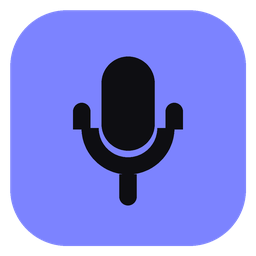
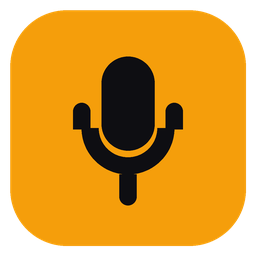
feat: icône ambre, plus visible dans la barre des tâches
- icône de l'application (exécutable, fenêtre, barre des tâches)
  redessinée en ambre (#F59E0B) ;
- pastille de la zone de notification ambre au repos ; la transcription
  passe en bleu (pastille et animation près du curseur) pour rester
  distincte, comme dans la maquette du mode réduit.

Claude-Session: https://claude.ai/code/session_01F8EBcfdij6bQ3uQRhhvB7C

diff --git a/src/ui/index.html b/src/ui/index.html
@@ -206,7 +206,7 @@ nav button.on::before{content:'';position:absolute;top:0;width:22px;height:3px;b
       <div class="list" id="keys"></div>
       <div class="section">Dictée</div>
       <div class="list">
-        <div class="set"><div class="lbl"><span>Animation près du curseur</span><span>Écoute en rouge, transcription en orange</span></div>
+        <div class="set"><div class="lbl"><span>Animation près du curseur</span><span>Écoute en rouge, transcription en bleu</span></div>
           <button class="toggle" id="t-indicator" aria-label="Animation près du curseur" aria-pressed="false"><span></span></button></div>
         <div class="set" id="row-live"><div class="lbl"><span>Écrire pendant la dictée</span><span>Realtime : mot par mot, quand Ctrl, Alt et Win sont relâchés</span></div>
           <button class="toggle" id="t-live" aria-label="Écrire pendant la dictée" aria-pressed="false"><span></span></button></div>

diff --git a/src/overlay.rs b/src/overlay.rs
@@ -2,7 +2,7 @@
 //!
 //! - **Écoute** : point rouge qui pulse et barres qui suivent le volume du
 //!   micro, pour voir que la voix est bien captée.
-//! - **Transcription** : trois points orange qui ondulent pendant
+//! - **Transcription** : trois points bleus qui ondulent pendant
 //!   l'interrogation de l'API.
 //!
 //! Le dessin est fait ici, en mémoire, sans dépendance système ; la fenêtre
@@ -42,7 +42,7 @@ pub fn level_from_rms(rms: f32) -> f32 {
 
 const BACKGROUND: [f32; 4] = [0.094, 0.094, 0.106, 0.9];
 const RED: [f32; 3] = [0.973, 0.443, 0.443];
-const ORANGE: [f32; 3] = [0.961, 0.620, 0.043];
+const BLUE: [f32; 3] = [0.376, 0.647, 0.980];
 const WHITE: [f32; 3] = [0.95, 0.95, 0.95];
 
 /// Taille en pixels physiques pour un facteur d'échelle d'écran.
@@ -96,7 +96,7 @@ pub fn render(animation: Animation, t: f32, level: f32, scale: f32) -> Vec<u8> {
                     .max(0.0);
                 let (cx, dy) = (18.0 + i as f32 * 12.0, -4.0 * wave);
                 let alpha = 0.7 + 0.3 * wave;
-                canvas.fill([ORANGE[0], ORANGE[1], ORANGE[2], alpha], |x, y| {
+                canvas.fill([BLUE[0], BLUE[1], BLUE[2], alpha], |x, y| {
                     dist(x, y, cx, cy + dy) <= 3.4
                 });
             }
@@ -262,8 +262,8 @@ mod tests {
         let thinking = render(Animation::Thinking, 0.2, 0.5, 1.0);
         assert_ne!(listening, thinking);
         assert_ne!(thinking, render(Animation::Thinking, 0.5, 0.5, 1.0));
-        // Transcription : orange, pas de rouge.
+        // Transcription : bleu, pas de rouge.
         let [b, g, r, _] = pixel(&render(Animation::Thinking, 0.0, 0.0, 1.0), 30, 13);
-        assert!(r > 150 && r > g && g > 2 * b, "{:?}", (r, g, b));
+        assert!(b > 150 && b > g && g > r, "{:?}", (r, g, b));
     }
 }

diff --git a/src/tray.rs b/src/tray.rs
@@ -27,9 +27,9 @@ impl TrayState {
 
     fn color(self) -> [u8; 3] {
         match self {
-            Self::Idle => [0x3B, 0x6E, 0xD8],       // bleu
+            Self::Idle => [0xF5, 0x9E, 0x0B],       // ambre (couleur de Dictia)
             Self::Recording => [0xE5, 0x39, 0x35],  // rouge
-            Self::Processing => [0xF5, 0x8F, 0x00], // orange
+            Self::Processing => [0x3B, 0x82, 0xF6], // bleu
             Self::Error => [0x75, 0x75, 0x75],      // gris
         }
     }
@@ -188,7 +188,7 @@ mod tests {
         assert_eq!(rgba.len(), (ICON_SIZE * ICON_SIZE * 4) as usize);
         assert_eq!(pixel(&rgba, 0, 0)[3], 0, "coin transparent");
         assert_eq!(pixel(&rgba, 16, 12), [255, 255, 255, 255], "micro blanc");
-        assert_eq!(pixel(&rgba, 4, 16), [0x3B, 0x6E, 0xD8, 255], "fond bleu");
+        assert_eq!(pixel(&rgba, 4, 16), [0xF5, 0x9E, 0x0B, 255], "fond ambre");
     }
 
     #[test]

diff --git a/assets/generate_icon.py b/assets/generate_icon.py
@@ -1,4 +1,4 @@
-"""Génère assets/dictia.ico (logo des maquettes : carré indigo, micro sombre).
+"""Génère assets/dictia.ico (logo : carré ambre, micro sombre).
 
 Usage : python3 assets/generate_icon.py   (nécessite Pillow)
 """
@@ -6,7 +6,7 @@ from pathlib import Path
 
 from PIL import Image, ImageDraw
 
-ACCENT = (0x7C, 0x83, 0xFF, 255)
+ACCENT = (0xF5, 0x9E, 0x0B, 255)  # ambre, bien visible dans la barre des tâches
 INK = (0x0E, 0x0E, 0x12, 255)
 BIG = 1024
 SIZES = [16, 20, 24, 32, 40, 48, 64, 128, 256]

diff --git a/src/config.rs b/src/config.rs
@@ -101,7 +101,7 @@ live_typing = true
 
 [indicator]
 # Animation à côté du curseur : point rouge et barres de volume pendant
-# l'écoute, points orange pendant la transcription.
+# l'écoute, points bleus pendant la transcription.
 enabled = true
 
 [ui]

diff --git a/README.md b/README.md
@@ -17,8 +17,8 @@ l'apparition du texte. Le cahier des charges complet se trouve dans
 - connexion TLS ouverte dès le 1er appui ;
 - transcription `gpt-4o-transcribe` en streaming (`/v1/audio/transcriptions`) ;
 - remplacements personnalisés, puis frappe via `SendInput` (sans presse-papier) ;
-- icône dans la zone de notification (bleu : prêt, rouge : enregistrement,
-  orange : transcription, gris : erreur) ;
+- icône dans la zone de notification (ambre : prêt, rouge : enregistrement,
+  bleu : transcription, gris : erreur) ;
 - journal des latences de chaque dictée ;
 - animation à côté du curseur pendant l'écoute et la transcription ;
 - fenêtre Dictia : historique, vocabulaire, raccourcis et réglages,
@@ -146,7 +146,7 @@ configuration.
 
 ## Utilisation
 
-1. Lancez `dictia.exe` : une pastille bleue avec un micro apparaît dans la zone
+1. Lancez `dictia.exe` : une pastille ambre avec un micro apparaît dans la zone
    de notification. Un clic dessus ouvre la fenêtre Dictia ; relancer
    `dictia.exe` alors qu'il tourne déjà l'ouvre aussi. Sans clé API, la
    fenêtre s'ouvre directement sur les Réglages.
@@ -159,14 +159,14 @@ configuration.
      après le relâchement (réglable dans Réglages → *Prolonger après
      relâchement*) pour ne pas couper la fin de la phrase ; ré-appuyer pendant
      ce délai prolonge la même dictée.
-4. L'icône devient orange, puis le texte est tapé dans la fenêtre d'origine,
+4. L'icône devient bleue, puis le texte est tapé dans la fenêtre d'origine,
    même si vous en avez changé entre-temps.
 
 Une petite pastille suit le curseur de texte (ou, à défaut, la souris) pendant
 la dictée :
 - **à l'écoute** : un point rouge qui pulse et des barres qui bougent avec
   votre voix ; si les barres restent plates, le micro ne vous entend pas ;
-- **transcription en cours** : trois points orange qui ondulent.
+- **transcription en cours** : trois points bleus qui ondulent.
 
 Elle disparaît dès que le texte est tapé. Pour la masquer :
 `[indicator] enabled = false`.
